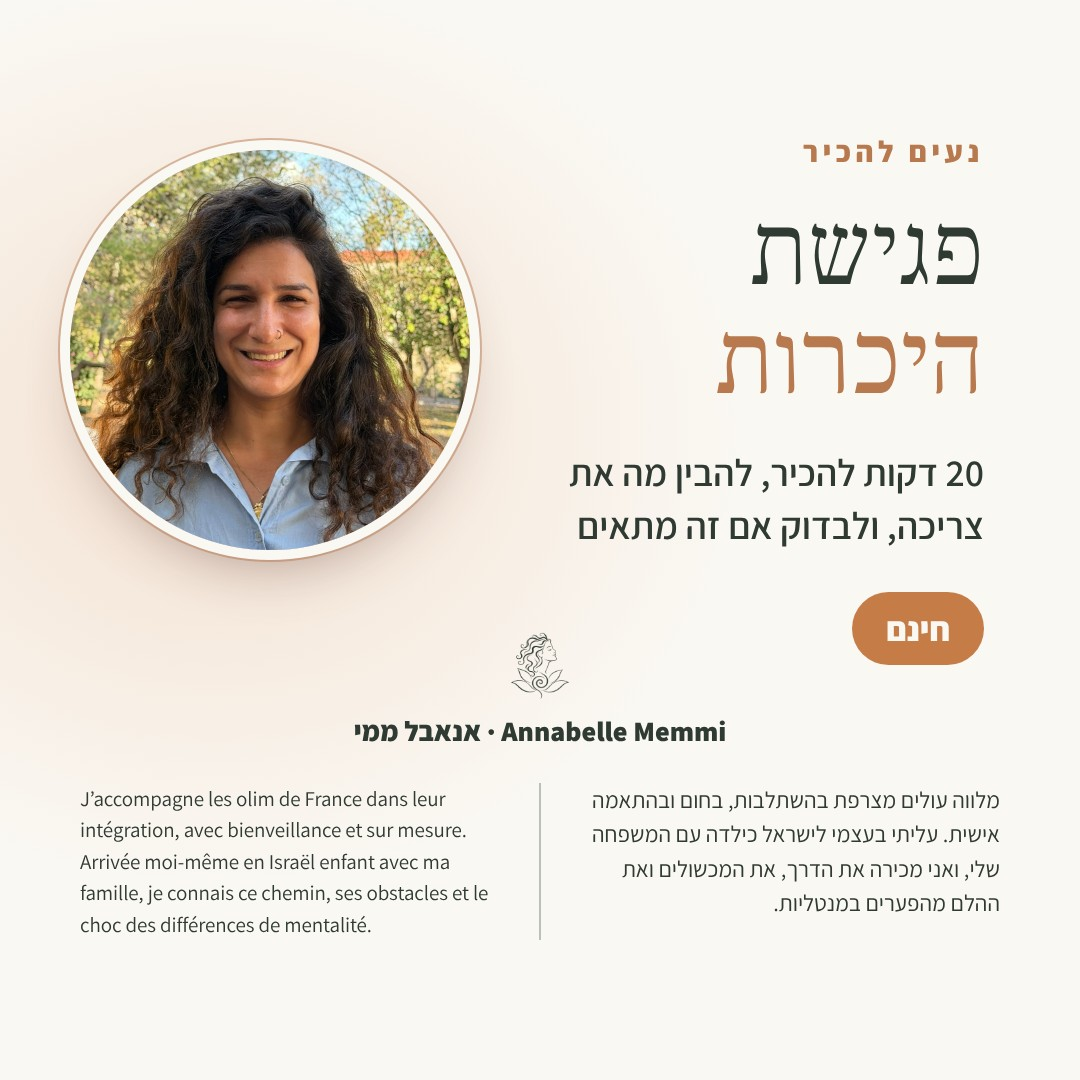
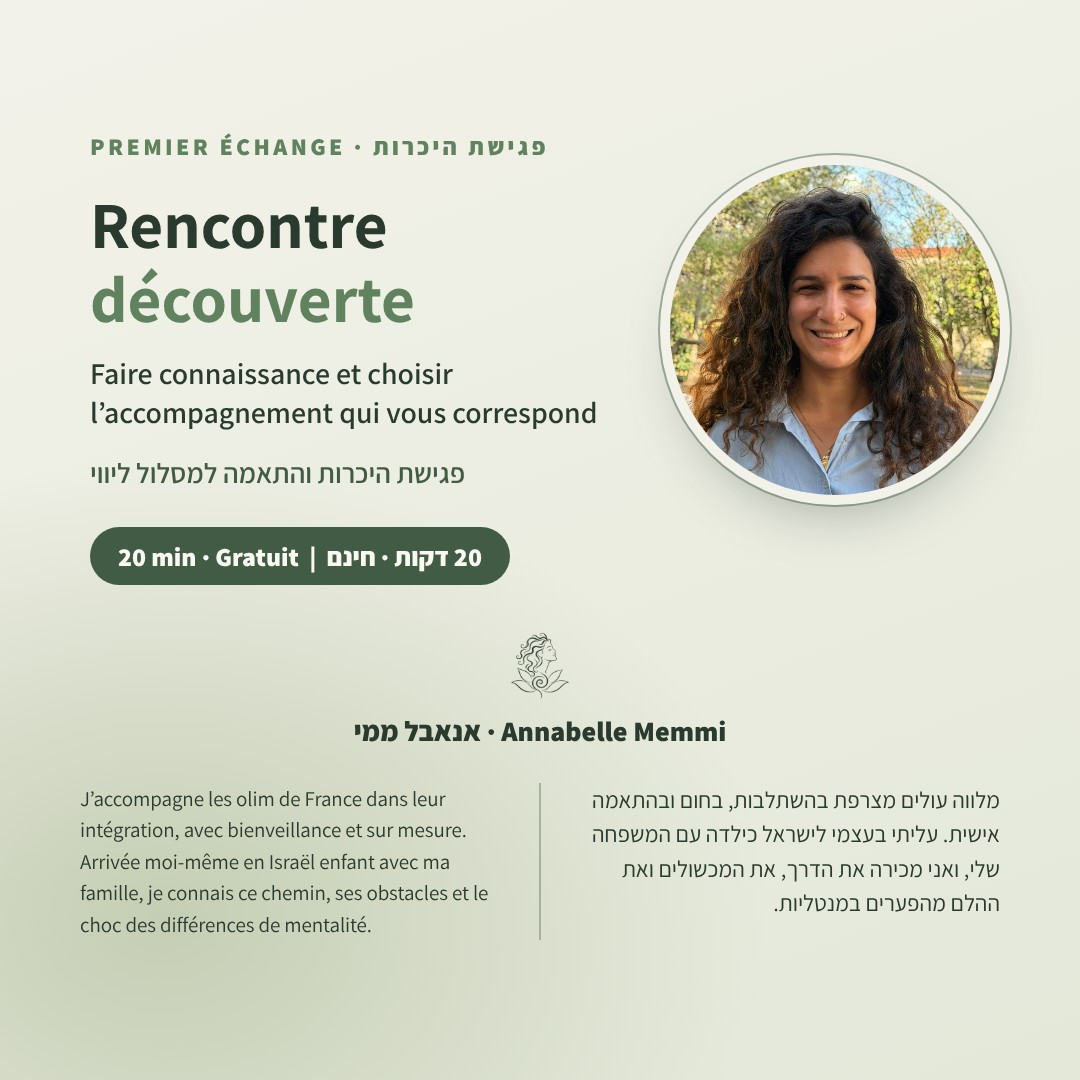
Catalog intro card: 'Rencontre découverte', French first, one font, same layout as the olim cards
Claude-Session: https://claude.ai/code/session_01Ur62TcEo8LSQkeiod8x8a5

diff --git a/assets/catalog/cards.html b/assets/catalog/cards.html
@@ -73,8 +73,8 @@
   .wa .he { direction: rtl; text-align: left; }
   .wa .wa-btn { margin: 0; flex: none; width: 96px; height: 96px; border-radius: 50%; background: #25D366; display: grid; place-items: center; box-shadow: 0 12px 28px -12px rgba(37,211,102,.7); }
   .wa .wa-btn .wa-ic { display: block; width: 58px; height: 58px; color: #fff; }
-  #c2 .ol, #c3 .ol, #c9 .ol { top: 150px; }
-  #c2 .photo, #c3 .photo, #c9 .photo { top: 165px; }
+  #c1 .ol, #c2 .ol, #c3 .ol, #c9 .ol { top: 150px; }
+  #c1 .photo, #c2 .photo, #c3 .photo, #c9 .photo { top: 165px; }
   #c1 .foot--olim, #c2 .foot--olim, #c3 .foot--olim, #c9 .foot--olim { bottom: 140px; }
   #c1 .foot--olim, #c2 .foot--olim, #c3 .foot--olim, #c9 .foot--olim { left: 80px; right: 80px; }
   #c1 .foot--olim > div, #c2 .foot--olim > div, #c3 .foot--olim > div, #c9 .foot--olim > div { width: 100%; }
@@ -84,18 +84,21 @@
   .two .two__fr { text-align: left !important; font-size: 21px !important; letter-spacing: -.1px; }
   .two .two__he { font-size: 23px !important; }
   .two__line { flex: none; width: 1.5px; background: rgba(65,91,68,.35); }
-  #c1 { padding-bottom: 380px; }
-  #c1 .photo { top: 150px; }
   #c1 .rule { display: none; }
+  #c1 .ol { top: 130px; }
+  #c1 .t-fr2 { font-size: 30px; }
 </style>
 </head>
 <body>
 
-<div class="card intro light" id="c1">
-  <p class="kicker">נעים להכיר</p>
-  <h1>פגישת<br><em>היכרות</em></h1>
-  <p class="sub" style="max-width:500px">20 דקות להכיר, להבין מה את צריכה, ולבדוק אם זה מתאים</p>
-  <span class="pill">חינם</span>
+<div class="card olim light olim2" id="c1">
+  <div class="ol">
+    <p class="kicker">PREMIER ÉCHANGE · פגישת היכרות</p>
+    <h2 class="t-fr">Rencontre<br><em>découverte</em></h2>
+    <p class="t-fr2">Faire connaissance et choisir l’accompagnement qui vous correspond</p>
+    <p class="t-he">פגישת היכרות והתאמה למסלול ליווי</p>
+    <span class="pill">20 min · Gratuit &nbsp;|&nbsp; <bdi dir="rtl">20 דקות · חינם</bdi></span>
+  </div>
   <img class="photo" src="annabelle-blue.jpg" alt="">
   <div class="rule"></div>
   <div class="foot foot--olim"><img src="../img/logo-white.png" alt=""><div>
